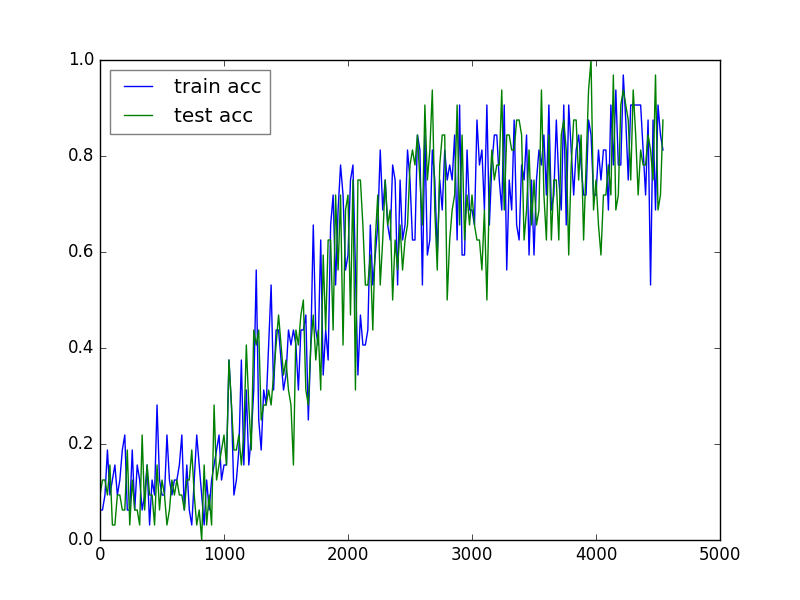
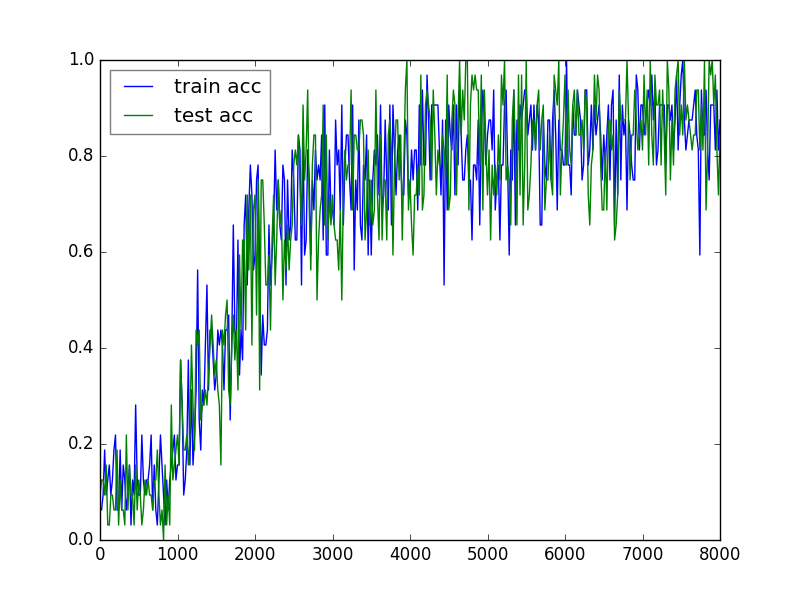
changes up to day of presentation

diff --git a/main_regression_latest.py b/main_regression_latest.py
@@ -15,13 +15,17 @@ from plotter import Plotter
 from convNet import ConvNet
 from mnistReader import MnistReader
 from imageIterator import ImageIterator
+from logger import Logger
 from tensorflow.examples.tutorials.mnist import input_data
 
-mbatches = int(1.0e5)
-batchsz = 8 
+mbatches = int(8.0e4)
+batchsz = 32
+interval = 20
 
-eval_train_accuracy_every = 50
-plot_train_accuracy_every = 50
+eval_train_accuracy_every = interval
+plot_train_accuracy_every = interval
+eval_test_accuracy_every = interval
+plot_test_accuracy_every = interval
 measure_test_batches = 100
 
 #Main Training Block
@@ -33,47 +37,50 @@ if __name__ == "__main__":
     #imageIter = ImageIterator("lon_small/square_28/")
     
     with tf.Session() as sess:
-        convNet = ConvNet(1e-4, batchsz)
+        convNet = ConvNet(0.25e-5, batchsz)
+        train_logger = Logger("Train set")
+        test_logger = Logger("Test set")
         sess.run(tf.initialize_all_variables())
         # Train net
         print("Training on %d minibatches of size %d..." % ( mbatches, batchsz) )
         time0 = ti.time()
         for i in range(mbatches):
             batch_imgs, batch_labs = mnistReader.next_train_batch(batchsz)
-            batch_imgs_org, batch_labs_org = mnistReaderOrg.train.next_batch(batchsz)
-            
-            #print batch_labs
-            #print batch_labs.shape
-            #print batch_imgs
-            #print batch_imgs.shape
-            #print mnist_batch_labs
-            #print mnist_batch_labs.shape
-            #print batch_imgs_org
-            #print batch_imgs_org.shape 
 
             loss, _ = sess.run([convNet.loss_val, convNet.train_op],
                                 feed_dict = {convNet.x:batch_imgs, convNet.y_:batch_labs, convNet.keep_prob:0.5})
-            """
-            loss, _ = sess.run([convNet.loss_val, convNet.train_op],
-                                feed_dict = {convNet.x:batch_imgs_org, convNet.y_:batch_labs_org, convNet.keep_prob:0.5})
-            """
-            plotter.x_axis_train.append(i)
-            plotter.losses_train.append(loss)    
 
             if i % eval_train_accuracy_every == 0:
-                train_accuracy = sess.run( convNet.accuracy, feed_dict=
-                                           {convNet.x:batch_imgs, convNet.y_:batch_labs, convNet.keep_prob:1.0})
-                #train_accuracy = sess.run( convNet.accuracy, feed_dict=
-                #                            {convNet.x:batch_imgs_org, convNet.y_:batch_labs_org, convNet.keep_prob:1.0})
-                
+                batch_imgs_train, batch_labs_train = mnistReader.next_train_batch(batchsz)
+                train_loss, train_accuracy = sess.run( [convNet.loss_val, convNet.accuracy], feed_dict=
+                                           {convNet.x:batch_imgs_train, convNet.y_:batch_labs_train, convNet.keep_prob:1.0})
+                plotter.x_axis_losses_train.append(i)
                 plotter.x_axis_acc_train.append(i)
-                plotter.accuracy_train.append(train_accuracy)
-                now = dt.datetime.now()
-                print loss
-                print("%d-%d-%d %2d:%2d:%2d: Step %6d: training accuracy: %.5g \t\t loss: %.5g" % 
-                        (now.month, now.day, now.year, now.hour, now.minute, now.second, i, train_accuracy, float(loss)) )
-            if i % plot_train_accuracy_every == 0:
-                plotter.plotSaveTrain('results/')
+                plotter.losses_train.append(train_loss)
+                plotter.acc_train.append(train_accuracy)
+                train_logger.log(dt.datetime.now(), train_loss, train_accuracy, i)
+
+                
+                
+            if i % eval_test_accuracy_every == 0:
+                batch_imgs_test, batch_labs_test = mnistReader.next_test_batch(batchsz)
+                test_loss, test_accuracy = sess.run( [convNet.loss_val, convNet.accuracy], feed_dict=
+                                           {convNet.x:batch_imgs_test, convNet.y_:batch_labs_test, convNet.keep_prob:1.0})
+                plotter.x_axis_losses_test.append(i)
+                plotter.x_axis_acc_test.append(i)
+                plotter.losses_test.append(test_loss)
+                plotter.acc_test.append(test_accuracy)
+                test_logger.log(dt.datetime.now(), test_loss, test_accuracy, i)
+
+            
+            #if i % plot_train_accuracy_every == 0:
+            #    plotter.plotTrainLossAccuracy('results/')
+
+            if i % plot_test_accuracy_every == 0:
+                plotter.plotTrainVsTestAcc('results/')
+                
+
+
         timeDelta = ti.time() - time0
         print("Training time took %.2f seconds, %d minibatches,  size %d" % (timeDelta, mbatches, batchsz))
 

diff --git a/plotter.py b/plotter.py
@@ -6,8 +6,8 @@ import time
 
 class Plotter:
     dateString = time.strftime("%d_%m_%Y@%H:%M:%S")
-    x_axis_train, x_axis_test, losses_train, losses_test = [], [], [], []
-    x_axis_acc_train, x_axis_acc_test, accuracy_train, accuracy_test = [], [], [], []
+    x_axis_losses_train, x_axis_losses_test, losses_train, losses_test = [], [], [], []
+    x_axis_acc_train, x_axis_acc_test, acc_train, acc_test = [], [], [], []
     plt.rcParams['legend.loc'] = 'best'
     
     def plot(self, batches, perplexities):
@@ -19,19 +19,29 @@ class Plotter:
     def plotSave(self, x_axis, losses, directory):
         plt.plot(x_axis, losses)
         plt.savefig(directory + self.dateString + '.png')
-   
-    def plotSave(self, x_axis_train, x_axis_test, losses_train, losses_test, directory):
-        plt.clf()
-        plt.plot(x_axis_train, losses_train, label='train loss')
-        plt.plot(x_axis_test, losses_test, label='test loss')
-        plt.legend(framealpha=0.5)
-        plt.savefig(directory + self.dateString + '.png')
     
-    def plotSaveTrain(self, directory):
-        plt.plot(self.x_axis_train, self.losses_train)
-        plt.savefig(directory + self.dateString + 'CrosEntLoss.png')
+    def plotTrainVsTestAcc(self, directory):
+        """Plots train loss vs test accuracy """
+        plt.clf()
+        plt.plot(self.x_axis_acc_train, self.acc_train, label='train acc')
+        plt.plot(self.x_axis_acc_test, self.acc_test, label='test acc')
+        plt.legend(framealpha=0.5)
+        plt.savefig(directory + self.dateString + 'TrainVsTestAcc.png')
+   
+    def plotTrainVsTestLosses(self, directory):
+        """Plots train loss vs test loss """
+        plt.clf()
+        plt.plot(self.x_axis_losses_train, self.losses_train, label='train loss')
+        plt.plot(self.x_axis_losses_test, self.losses_test, label='test loss')
+        plt.legend(framealpha=0.5)
+        plt.savefig(directory + self.dateString + 'TrainVsTestLoss.png')
+    
+    def plotTrainLossAccuracy(self, directory):
+        """Plots both the accuracy and cross ent loss and saves as separate figures. """
+        plt.plot(self.x_axis_losses_train, self.losses_train)
+        plt.savefig(directory + self.dateString + 'TrainCrosEntLoss.png')
         plt.clf()
         plt.plot(self.x_axis_acc_train, self.accuracy_train)
-        plt.savefig(directory + self.dateString + 'Accuracy.png')
+        plt.savefig(directory + self.dateString + 'TrainAccuracy.png')
 
         

diff --git a/logger.py b/logger.py
@@ -1,0 +1,9 @@
+
+
+class Logger:
+    def __init__(self, labelString):
+        self.labelString = labelString
+
+    def log(self, now, loss, accuracy, i):
+        print("%d-%d-%d %2d:%2d:%2d: Step %6d: %s accuracy: %.5g \t\t loss: %.5g" % (now.month, now.day, now.year, now.hour, now.minute, now.second, i, self.labelString, accuracy, loss ))
+
